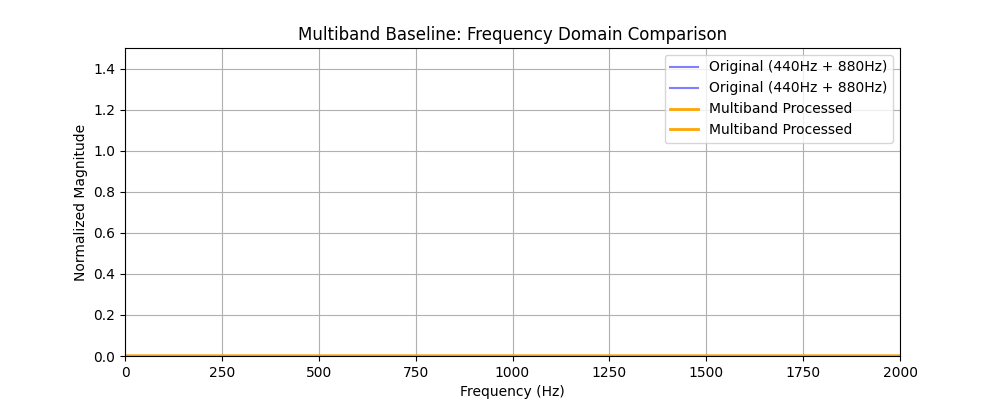
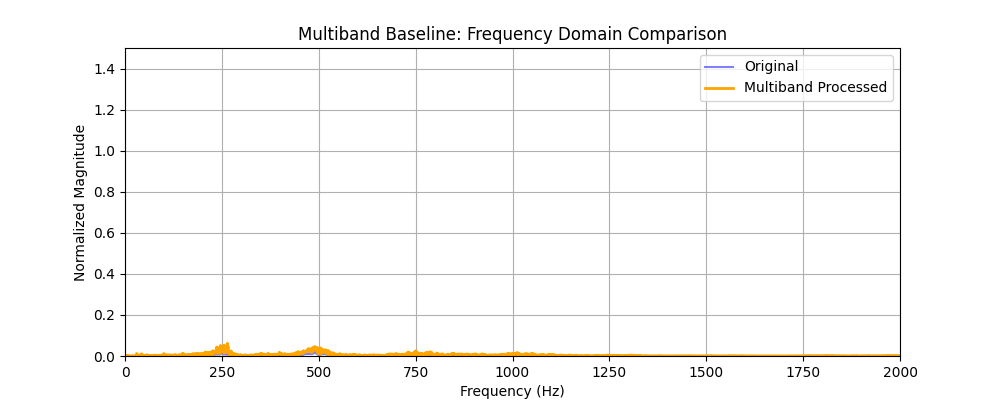
feat: complete multiband real-voice processing with DRC

Changed region(s): [[0.651, 0.15, 0.899, 0.36], [0.124, 0.84, 0.589, 0.9]]

diff --git a/src/python/multiband_baseline.py b/src/python/multiband_baseline.py
@@ -1,6 +1,8 @@
 import numpy as np
 import scipy.signal as signal
 import soundfile as sf
+import matplotlib.pyplot as plt
+import os
 
 # 1. 读取音频
 audio_path = "data/audio/real_voice.wav"
@@ -33,7 +35,26 @@ for low, high in bands:
     output += compressed
 
 print(f"3. 最终输出长度：{len(output)/fs:.2f} 秒")
-
-# 5. 保存音频（注意这里没有任何画图逻辑）
 sf.write("data/audio/multiband_output.wav", output, fs)
-print("✅ 音频已成功保存！请去文件夹里右键查看属性！")
+print("✅ 音频已成功保存！")
+
+# 5. 画图（严格使用切片副本，绝不污染原变量）
+n = min(fs, len(x)) # 只取前1秒画图
+freqs = np.fft.fftfreq(n, 1/fs)
+fft_orig = np.abs(np.fft.fft(x[:n])) / n * 2
+fft_multi = np.abs(np.fft.fft(output[:n])) / n * 2
+
+plt.figure(figsize=(10, 4))
+plt.plot(freqs[:n//2], fft_orig[:n//2], label="Original", color='blue', alpha=0.5)
+plt.plot(freqs[:n//2], fft_multi[:n//2], label="Multiband Processed", color='orange', linewidth=2)
+plt.title("Multiband Baseline: Frequency Domain Comparison")
+plt.xlabel("Frequency (Hz)")
+plt.ylabel("Normalized Magnitude")
+plt.xlim(0, 2000)
+plt.ylim(0, 1.5)
+plt.legend()
+plt.grid(True)
+
+os.makedirs("data/figures", exist_ok=True)
+plt.savefig("data/figures/multiband_comparison.png")
+print("✅ 图片已重新保存，且音频长度未被截断！")
